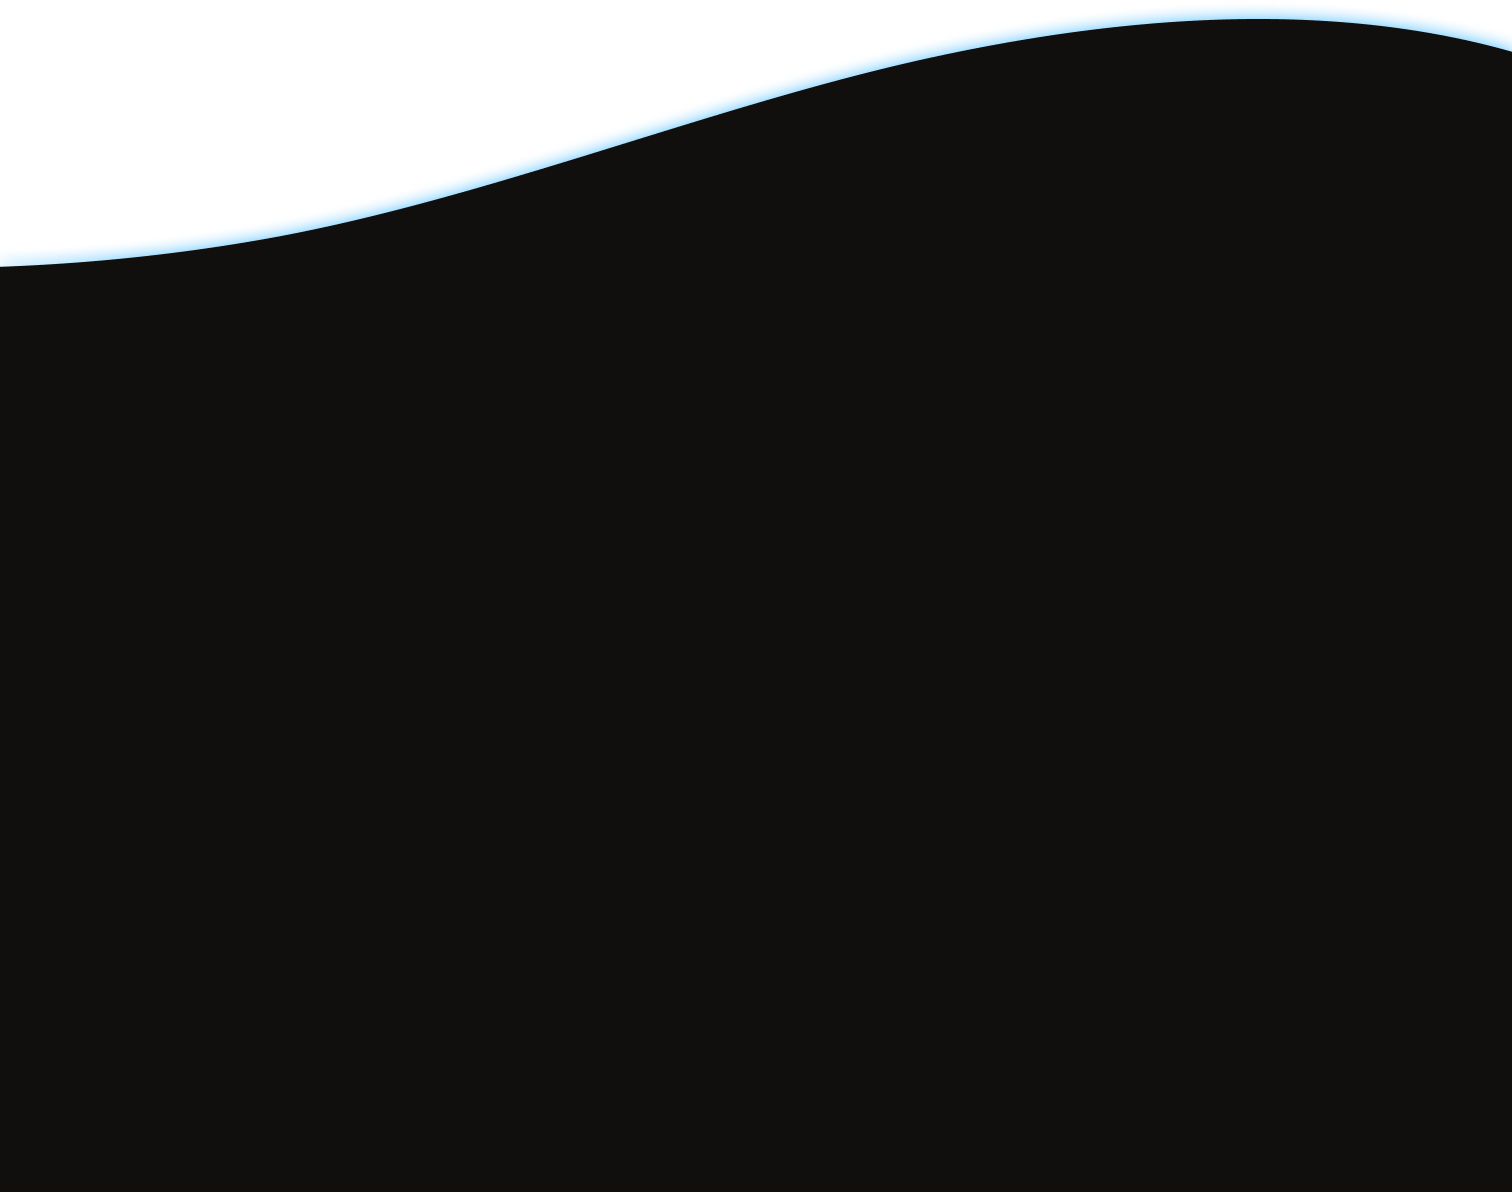
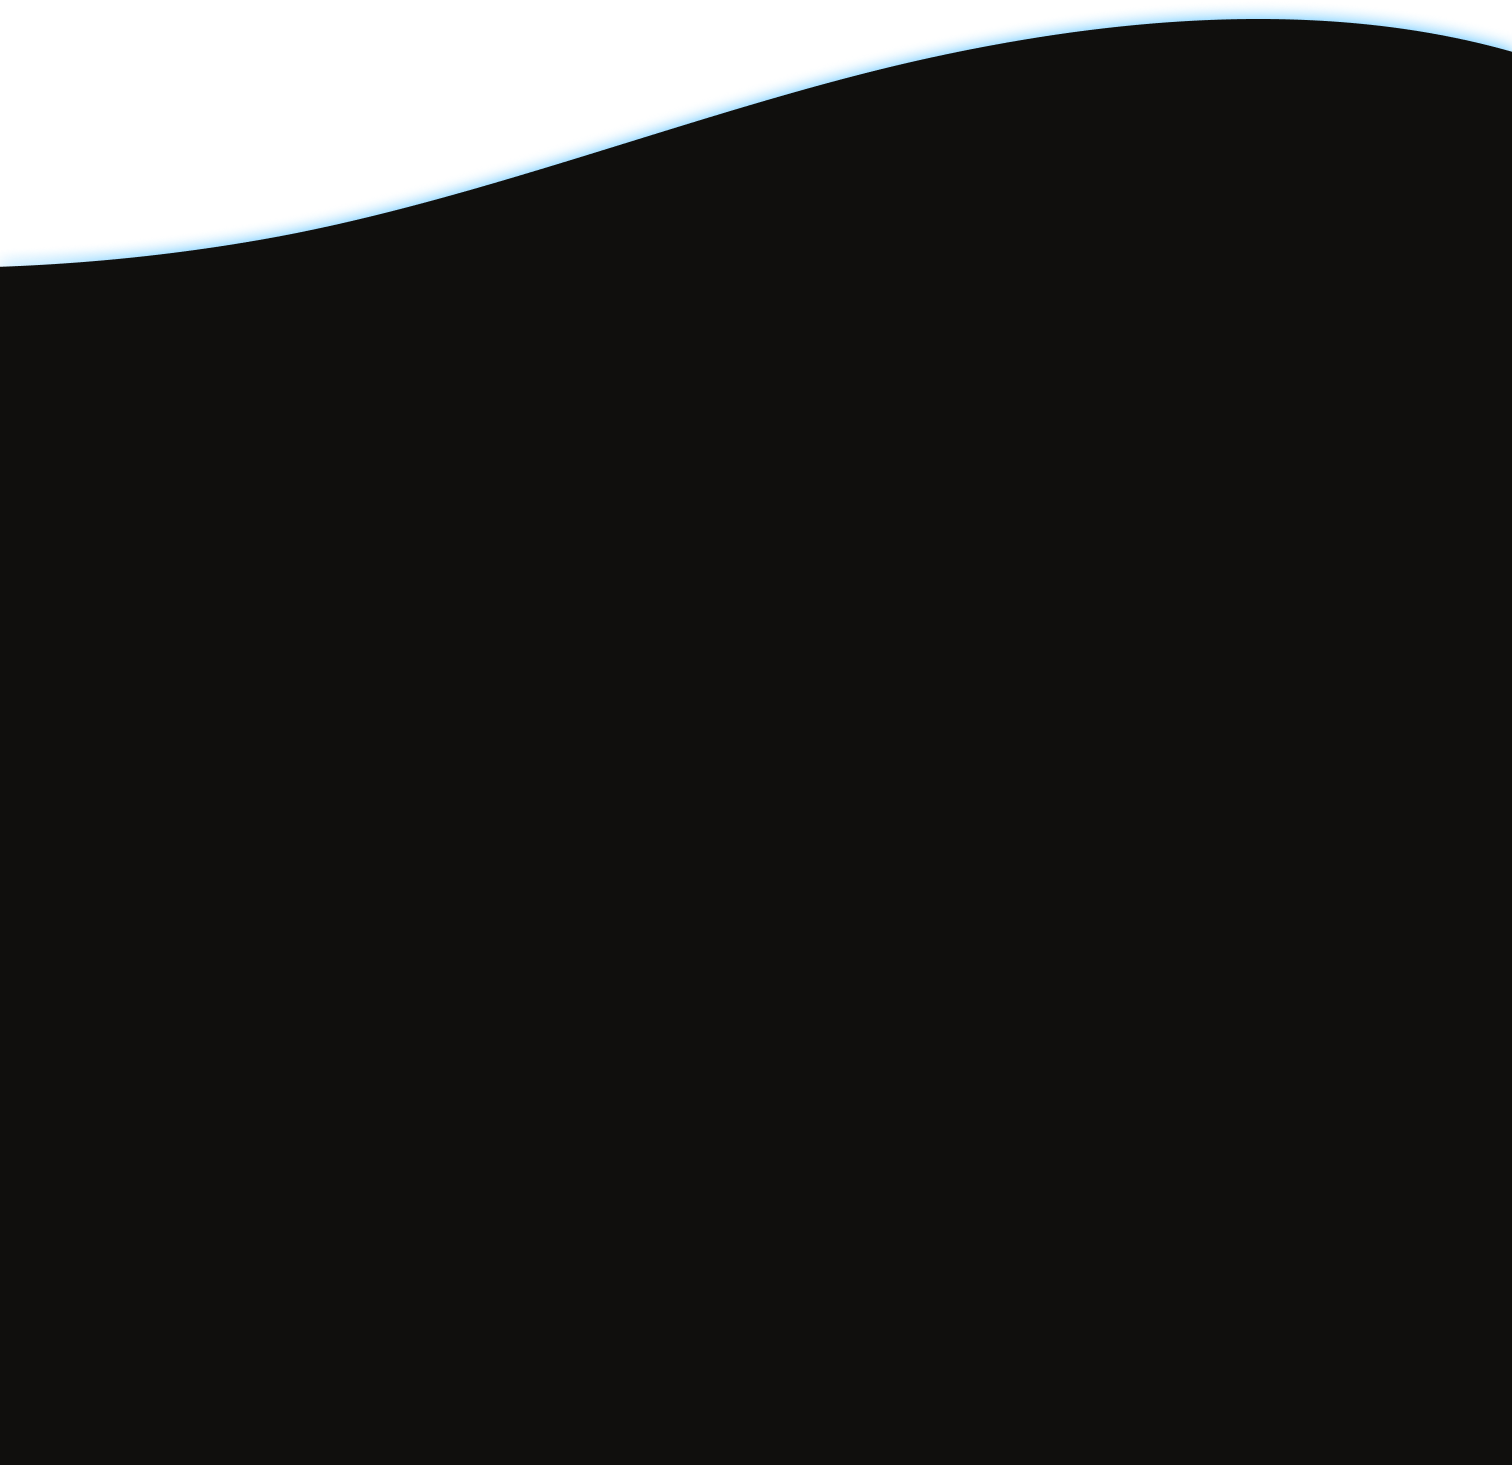
added black background to cover where the image ended, to fully stretch to the footer

Changed region(s): [[0.0, 0.0, 1.0, 0.2483]]

diff --git a/styles/boat-detailing.module.scss b/styles/boat-detailing.module.scss
@@ -12,7 +12,7 @@
   object-fit: cover;
   object-position: center;
   position: absolute;
-  bottom: 6%;
+  bottom: -1%;
   z-index: -1;
 }
 
@@ -82,7 +82,26 @@
   }
 }
 
+@media (max-width: 1250px) {
+  .boat_detailing__background {
+    bottom: -2%;
+  }
+}
+
 @media (max-width: 1000px) {
+  .black_bg {
+    grid-column: 1 / -1;
+    background-color: #100F0D;
+    z-index: -1;
+    position: absolute;
+    bottom: 5%;
+    height: 500px;
+    width: 100%;
+  }
+
+  .boat_detailing__background {
+    bottom: 14%;
+  }
   .boat_detailing__cards {
     flex-direction: column;
     align-items: center;
@@ -100,5 +119,17 @@
         margin: 0;
       }
     }
+  }
+}
+
+@media (max-width: 890px) {
+  .boat_detailing__background {
+    bottom: 11%;
+  }
+}
+
+@media (max-width: 650px) {
+  .boat_detailing__background {
+    bottom: 11%;
   }
 }

diff --git a/pages/boat-detailing.js b/pages/boat-detailing.js
@@ -87,6 +87,7 @@ export default function BoatDetailing() {
         </div>
       </motion.div>
       <Image className={styles.boat_detailing__background} src={Background} alt="background"/>
+      <div className={styles.black_bg}></div>
     </>
   )
 }
